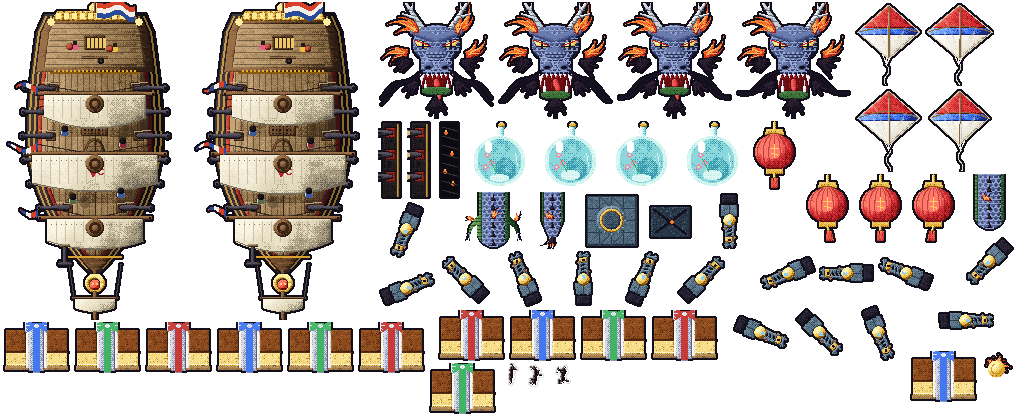
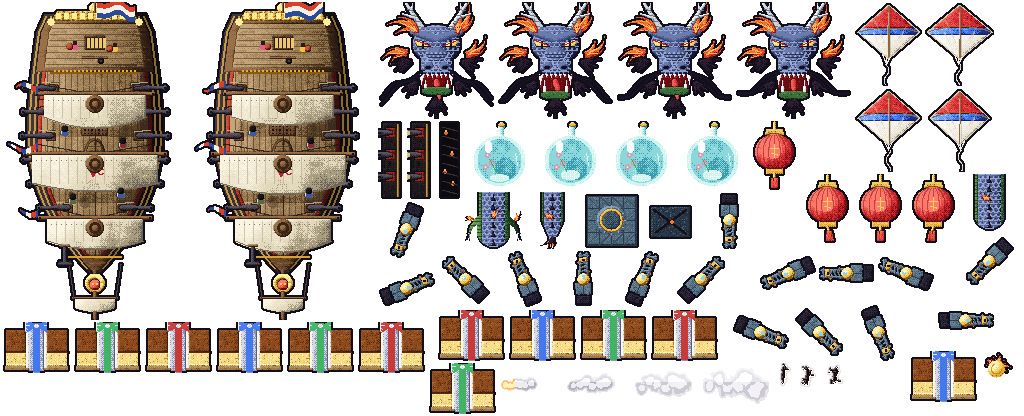
The Oranda-bune's broadsides roll gun smoke out of every port the way it fires (n_cannon_smoke, a flash of fire then a billow thinning out), and the Oniyama crocodile's snap goes half open, wide open, half shut, shut (wani_half)
Claude-Session: https://claude.ai/code/session_01MRa5UEHufJmpkQZTQUStvb

Changed region(s): [[0.4688, 0.875, 0.8438, 0.9688]]

diff --git a/src/game/enemies/beppu.js b/src/game/enemies/beppu.js
@@ -96,7 +96,14 @@ export const beppu = {
       return this.waniSegs(e);
     }
     e.fight += dt;
-    if (e.snapT > 0 && (e.snapT -= dt) <= 0 && !e.sub) e.setFrame('wani_0');
+    if (e.snapT > 0) {
+      // the snap: half open, wide open, half shut again, shut (only to look at; the teeth fly at the snap itself)
+      e.snapT -= dt;
+      if (!e.sub) {
+        const half = e.texture.has('wani_half') && (e.snapDur - e.snapT < 0.05 || e.snapT < 0.07);
+        e.setFrame(e.snapT <= 0 ? 'wani_0' : half ? 'wani_half' : 'wani_1');
+      }
+    }
     if (e.sub) return this.waniDive(e, dt, b);
     if (e.roll > 0) {
       // death roll: the whole body spins, a spiral of scalding water flies out of the jaws
@@ -141,8 +148,8 @@ export const beppu = {
             const n = a - side * DOWN; // across the aim line, towards it
             b.shot('eb_s', mouth.x, mouth.y, a + side * th, v, 1.8, { ax: Math.cos(n) * acc, ay: Math.sin(n) * acc });
           }
-        e.setFrame('wani_1');
-        e.snapT = 0.3;
+        e.setFrame(e.texture.has('wani_half') ? 'wani_half' : 'wani_1');
+        e.snapT = e.snapDur = 0.3;
         s.sfx.explode('s');
         e.timer = 0.95;
         if (++e.step >= 3) this.nextPattern(e);
@@ -181,8 +188,8 @@ export const beppu = {
       e.flash = Math.floor(d.t * 20) % 2 ? 0.02 : 0;
       if (d.t > 0.35) {
         e.ghost = false;
-        e.setFrame('wani_1');
-        e.snapT = 0.5;
+        e.setFrame(e.texture.has('wani_half') ? 'wani_half' : 'wani_1');
+        e.snapT = e.snapDur = 0.5;
         s.fx.puff('splash', e.x, e.y + 20, 0.4);
         s.fx.puff('splash', e.x, e.y - 10, 0.4);
         // the false shadows burst up too, as scalding spouts

diff --git a/src/game/enemies/nagasaki.js b/src/game/enemies/nagasaki.js
@@ -10,6 +10,14 @@ const BATTERY = { hp: 85, weight: 0, score: 2500, radius: 6, explosion: 'm' };
 const JA_BODY = 0.4;
 
 export const nagasaki = {
+  /** Gun smoke rolling out of a port the way it fired (only to look at). */
+  gunSmoke(x, y, a) {
+    if (NO_PROPS || !hasEnemyFrame('n_cannon_smoke_0')) return;
+    const sp = this.segPool.spawn('n_cannon_smoke_0', x, y).setOrigin(0.05, 0.5).setRotation(a).setDepth(DEPTH.air + 0.02);
+    sp.setScale(sp.base * 1.5);
+    sp.play('n_cannon_smoke').once('animationcomplete', (anim) => anim.key === 'n_cannon_smoke' && sp.active && this.segPool.kill(sp));
+  },
+
   /** A pulsing glow round the pearl (and its twin in phase 3), only to look at. */
   pearlGlow(g, e) {
     if (NO_PROPS || !hasEnemyFrame('n_pearl')) return;
@@ -187,6 +195,7 @@ export const nagasaki = {
         e.flashSide = v.side;
         e.flashT = 0.08;
         s.fx.smoke(x, y, 1, 1);
+        this.gunSmoke(x, y, a);
         v.port++;
         v.t = 0.1;
         if (v.port >= 5) {

diff --git a/src/game/enemyArt.js b/src/game/enemyArt.js
@@ -123,6 +123,7 @@ export const CITY_ANIMS = {
   // Nagasaki
   n_lantern: [four('n_lantern'), 5], n_biidoro: [four('n_biidoro'), 5], n_hata: [four('n_hata'), 7],
   n_ja: [four('n_ja'), 6], n_oranda: [['n_oranda_0', 'n_oranda_1'], 5],
+  n_cannon_smoke: [four('n_cannon_smoke'), 10, 0], // (once: gun smoke out of a port)
   ...Object.fromEntries(['red', 'blue', 'green'].map((c) => [`n_castella_${c}`, [four(`n_castella_${c}`), 5]])),
 };
 
